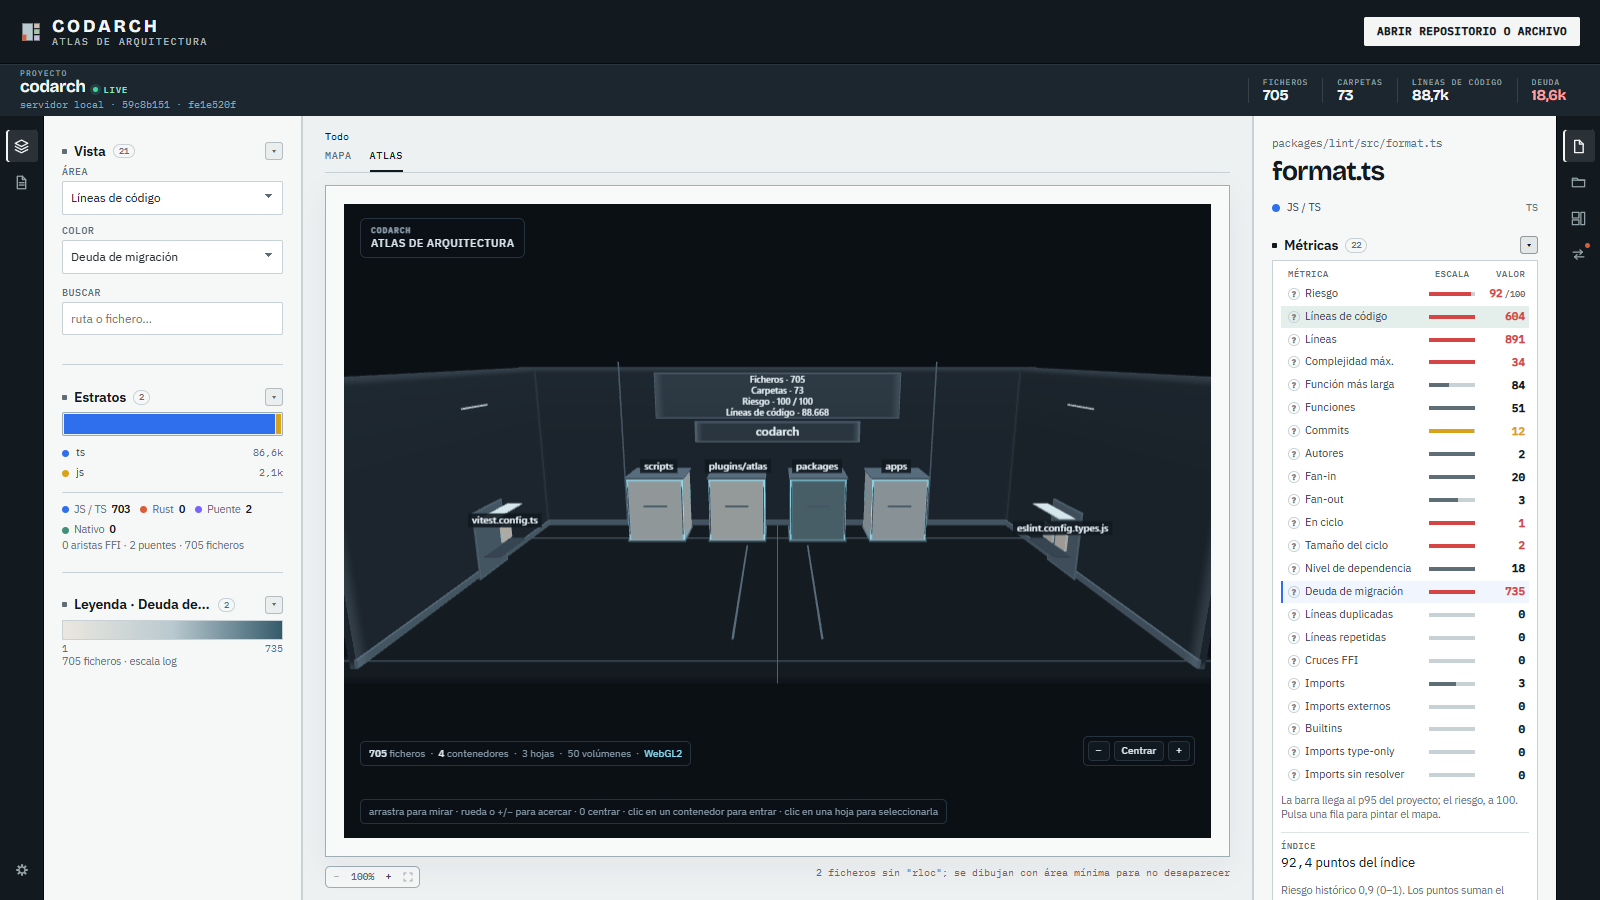
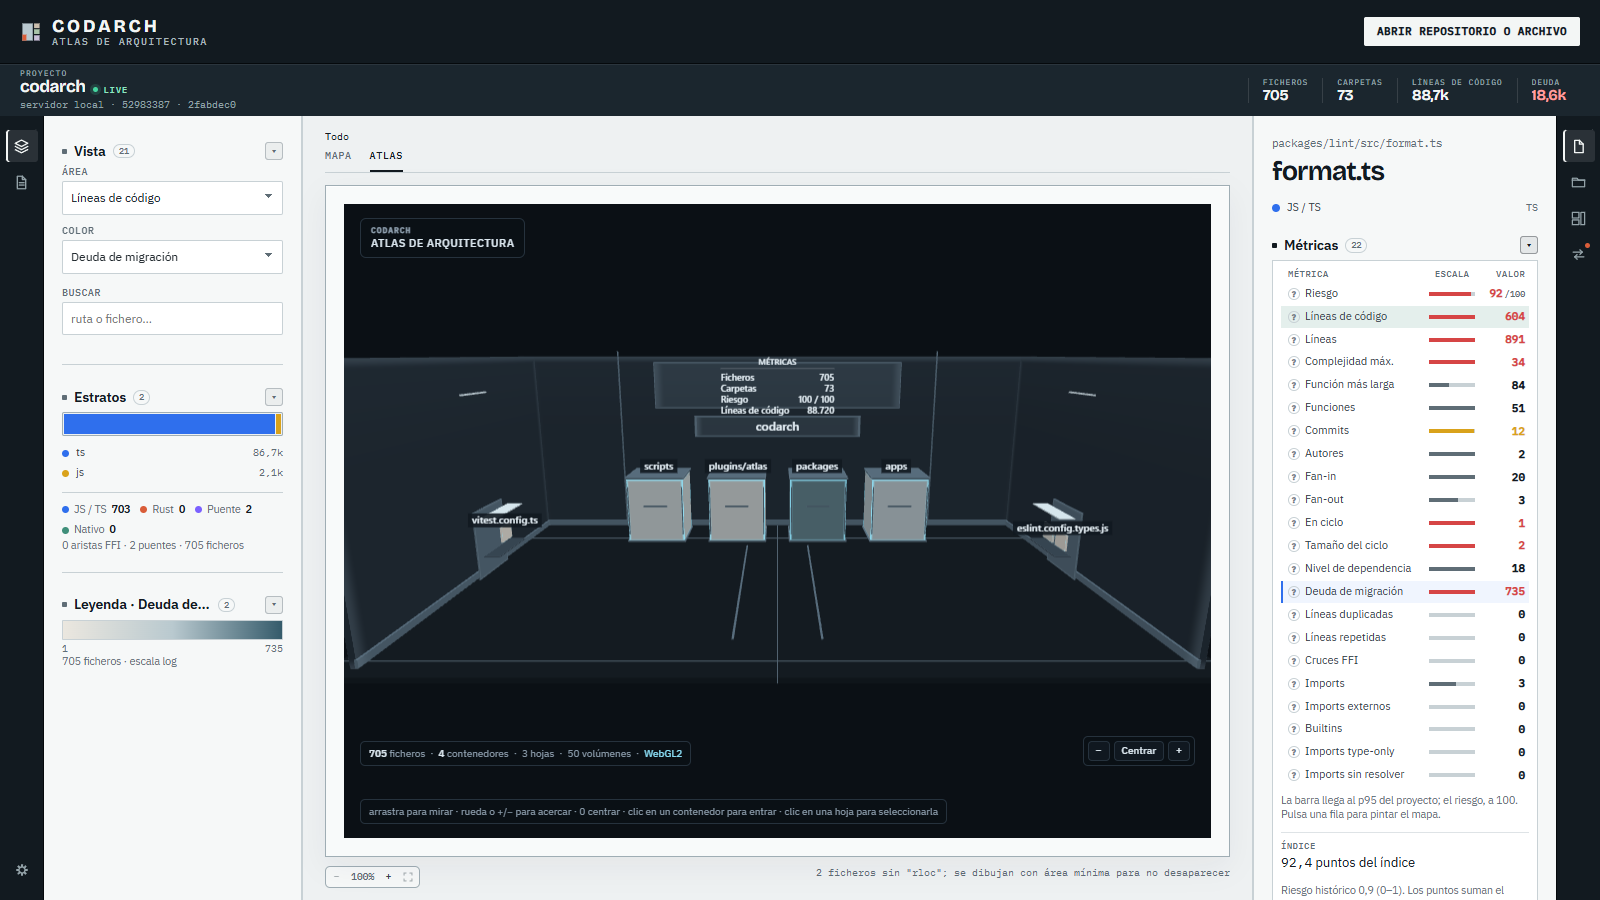
feat(atlas): format the metrics wall as a table (#38)

Changed region(s): [[0.2188, 0.3733, 0.75, 0.4978], [0.0938, 0.0933, 0.1562, 0.1244], [0.6562, 0.4356, 0.6875, 0.4667]]

diff --git a/plugins/atlas/scene.ts b/plugins/atlas/scene.ts
@@ -726,6 +726,58 @@ export function mountScene(
     for (const { box, point } of candidates) {
       const isSign = box.role === "sign";
       const isMetric = box.role === "metric";
+      if (isMetric && box.metricRows) {
+        const rows = box.metricRows;
+        const rowHeight = 11;
+        labels.font = '600 8px "Inter", system-ui, sans-serif';
+        const titleWidth = labels.measureText("MÉTRICAS").width;
+        labels.font = '500 9px "Inter", system-ui, sans-serif';
+        const rowWidth = Math.max(
+          ...rows.map((row) => {
+            const label =
+              row.label.length > 20
+                ? `${row.label.slice(0, 19)}…`
+                : row.label;
+            return (
+              labels.measureText(label).width +
+              labels.measureText(row.value).width +
+              14
+            );
+          })
+        );
+        const maxWidth = Math.max(titleWidth, rowWidth);
+        const rect = {
+          x: point.x - maxWidth / 2 - 8,
+          y: point.y - (rows.length * rowHeight + 18) / 2,
+          w: maxWidth + 16,
+          h: rows.length * rowHeight + 18
+        };
+        occupied.push(rect);
+        labels.textAlign = "center";
+        labels.fillStyle = labelText;
+        labels.font = '600 8px "Inter", system-ui, sans-serif';
+        labels.fillText("MÉTRICAS", point.x, rect.y + 8);
+        labels.strokeStyle = "rgba(231, 241, 247, 0.22)";
+        labels.beginPath();
+        labels.moveTo(rect.x + 6, rect.y + 14);
+        labels.lineTo(rect.x + rect.w - 6, rect.y + 14);
+        labels.stroke();
+        labels.font = '500 9px "Inter", system-ui, sans-serif';
+        for (let index = 0; index < rows.length; index++) {
+          const row = rows[index]!;
+          const label =
+            row.label.length > 20
+              ? `${row.label.slice(0, 19)}…`
+              : row.label;
+          const y = rect.y + 24 + index * rowHeight;
+          labels.textAlign = "left";
+          labels.fillText(label, rect.x + 6, y);
+          labels.textAlign = "right";
+          labels.fillText(row.value, rect.x + rect.w - 6, y);
+        }
+        labels.textAlign = "left";
+        continue;
+      }
       const isPanel = isSign || isMetric;
       labels.font = isSign
         ? '600 12px "Inter", system-ui, sans-serif'

diff --git a/plugins/atlas/room.ts b/plugins/atlas/room.ts
@@ -36,6 +36,8 @@ export interface AtlasBox {
   label?: string;
   /** Detalle pequeño que se puede retirar cuando la sala tiene muchas cajas. */
   detail?: boolean;
+  /** Filas de una pantalla de métricas. */
+  metricRows?: readonly RoomMetric[];
 }
 
 export interface RoomInput {
@@ -263,7 +265,7 @@ export function buildRoom(input: RoomInput): Room {
 
   // Suelo, paredes y techo: todas las escalas comparten la misma sala.
   const roomHeight = Math.max(
-    16,
+    17,
     fileWallHeight + 4,
     maxFolderHeight + 9
   );
@@ -423,9 +425,8 @@ export function buildRoom(input: RoomInput): Room {
       height: tableHeight,
       color: input.furnitureColor,
       selectable: false,
-      label: metricRows
-        .map((metric) => `${metric.label} · ${metric.value}`)
-        .join("\n")
+      label: "Métricas",
+      metricRows
     });
   }
 

diff --git a/plugins/atlas/test/atlas.test.ts b/plugins/atlas/test/atlas.test.ts
@@ -246,8 +246,8 @@ describe("la geometría frontal del Atlas", () => {
     const panels = room.boxes.filter((box) => box.role === "metric");
 
     expect(panels).toHaveLength(1);
-    expect(panels[0]?.label).toContain("Ficheros");
-    expect(panels[0]?.label).toContain("\n");
+    expect(panels[0]?.metricRows?.[0]?.label).toBe("Ficheros");
+    expect(panels[0]?.metricRows).toHaveLength(3);
     expect(panels[0]?.z).toBeGreaterThan(room.depth);
   });
 

diff --git a/apps/site/docs/desarrollo/guideline/entradas/2026-11-09-209-tabla-de-metricas-con-columnas.md b/apps/site/docs/desarrollo/guideline/entradas/2026-11-09-209-tabla-de-metricas-con-columnas.md
@@ -1,0 +1,28 @@
+---
+title: "La tabla de métricas, con columnas"
+date: "2026-11-09"
+category: "feature"
+verdict: "adr"
+---
+
+**Qué era**: la pantalla de métricas de la pared de fondo era una lista centrada; se leía, pero no
+parecía una tabla y el nombre de cada cifra competía con su valor.
+
+**Qué cambia**:
+
+- La pantalla lleva el encabezado `MÉTRICAS`.
+- Cada fila alinea la etiqueta a la izquierda y el valor a la derecha.
+- Se mantiene una sola pantalla, no cuatro paneles.
+- La tabla se calcula igual desde el `RenderModel` y sigue sin ser seleccionable.
+
+****Por qué así**: una tabla con columnas se lee de un vistazo y deja aire entre el nombre y la cifra.
+Sigue integrada en la pared y no tapa la arquitectura.
+
+**Verificado**: en Chrome, la raíz muestra la tabla del proyecto y `packages/ui/src` la de su ámbito;
+sin errores de consola.
+
+**Qué falta**: adaptar el ancho a nombres muy largos y seguir puliendo luces y composición.
+
+**Tamaño**: `room.ts`, `scene.ts`, pruebas del Atlas y documentación.
+
+**Veredicto**: hecho.

diff --git a/apps/site/docs/en/desarrollo/guideline/entradas/2026-11-09-209-tabla-de-metricas-con-columnas.md b/apps/site/docs/en/desarrollo/guideline/entradas/2026-11-09-209-tabla-de-metricas-con-columnas.md
@@ -1,0 +1,28 @@
+---
+title: "The metrics table, with columns"
+date: "2026-11-09"
+category: "feature"
+verdict: "adr"
+---
+
+**What it was**: the back-wall metrics screen was a centred list; readable, but not table-like and
+each metric name competed with its value.
+
+**What changes**:
+
+- The screen has a `MÉTRICAS` header.
+- Each row aligns the label left and the value right.
+- One screen is kept, not four panels.
+- The table is still computed from the `RenderModel` and is not selectable.
+
+**Why this way**: a table with columns reads at a glance and leaves air between name and number. It
+stays on the wall and hides no architecture.
+
+**Verified**: in Chrome, the root shows the project table and `packages/ui/src` its scope; no console
+errors.
+
+**What remains**: adapt width to very long names and keep polishing light and composition.
+
+**Size**: `room.ts`, `scene.ts`, Atlas tests and documentation.
+
+**Verdict**: done.

diff --git a/apps/site/docs/en/desarrollo/adr/0121-0130/0126-pared-de-metricas.md b/apps/site/docs/en/desarrollo/adr/0121-0130/0126-pared-de-metricas.md
@@ -26,8 +26,9 @@ and cabinets. Users had to leave the room to know how many files or what risk th
 The back wall gets a horizontal screen centred above the sign:
 
 - a trim frame;
-- a four-row table;
-- centred text, readable on the dark background;
+- a `MÉTRICAS` header;
+- rows with the label on the left and the value on the right;
+- readable text on the dark background;
 - not selectable.
 
 It is not a HUD panel: it is mounted on the wall, like the sign.

diff --git a/apps/site/docs/desarrollo/adr/0121-0130/0126-pared-de-metricas.md b/apps/site/docs/desarrollo/adr/0121-0130/0126-pared-de-metricas.md
@@ -27,8 +27,9 @@ ficheros o qué riesgo estaba viendo.
 La pared de fondo lleva una pantalla horizontal centrada sobre el cartel:
 
 - un marco de moldura;
-- una tabla de cuatro filas;
-- texto centrado, legible sobre el fondo oscuro;
+- un encabezado `MÉTRICAS`;
+- filas con la etiqueta a la izquierda y el valor a la derecha;
+- texto legible sobre el fondo oscuro;
 - no seleccionable.
 
 No es un panel del HUD: está montada en la pared, como el cartel.
